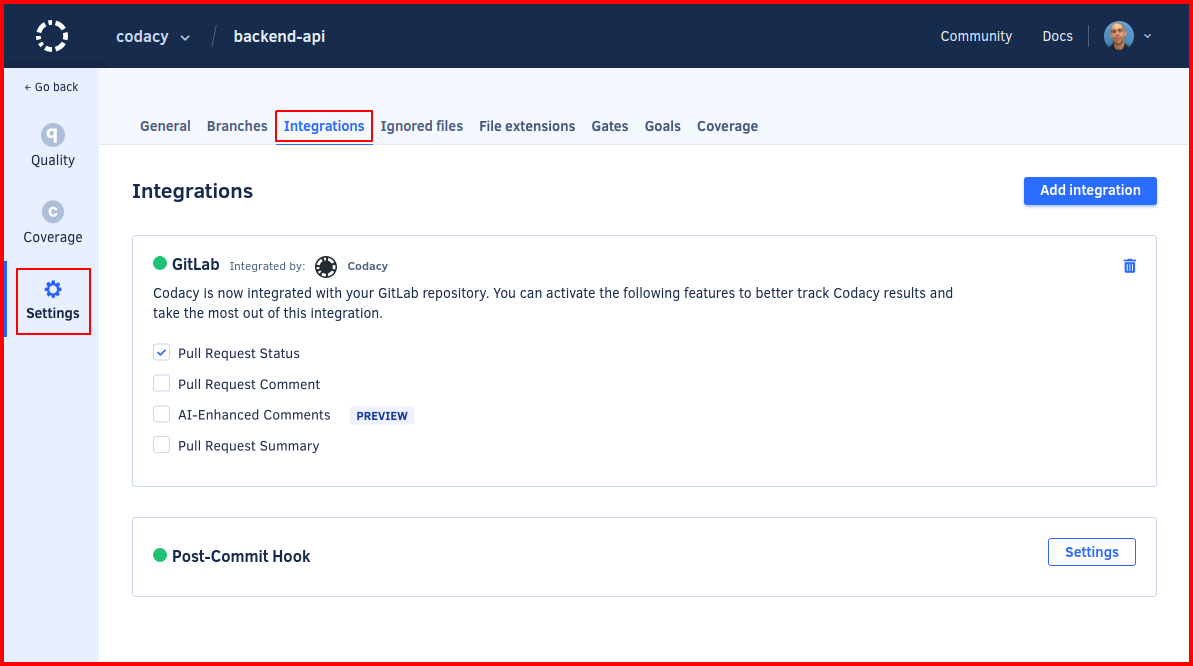
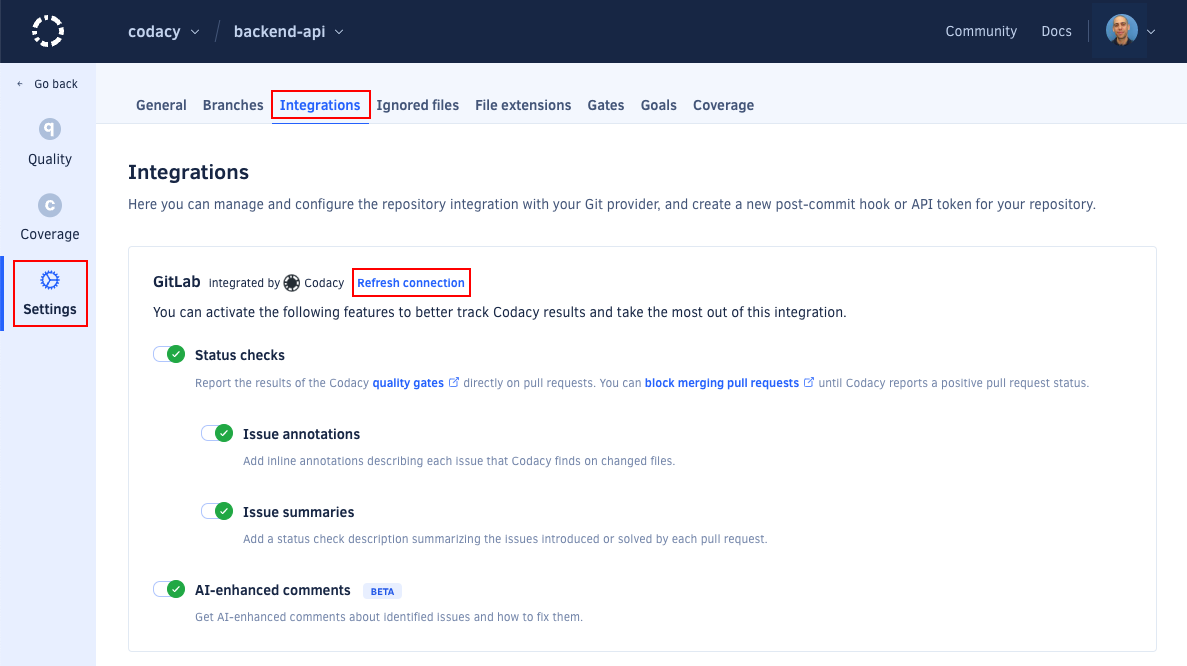
feat: Update GitLab option names and screenshots

diff --git a/docs/repositories-configure/integrations/gitlab-integration.md b/docs/repositories-configure/integrations/gitlab-integration.md
@@ -8,7 +8,7 @@ The GitLab integration incorporates Codacy on your existing Git provider workflo
 
 When you add a new repository, Codacy sets the GitLab integration using the [default settings for your organization](../../organizations/integrations/default-git-provider-integration-settings.md). You can then [customize the settings](#configuring) for the repository.
 
-![GitLab integration](images/gitlab-integration.png)<!--TODO CY-6642 Update screenshot-->
+![GitLab integration](images/gitlab-integration.png)
 
 !!! important
     Codacy uses the GitLab user who added the repository to create comments on merge requests. If that user loses access to the repository, a repository admin must [refresh the GitLab integration](#refreshing).
@@ -25,7 +25,7 @@ Depending on the options that you enable, Codacy will automatically update merge
     end="<!--default-settings-apply-all-end-->"
 %}
 
-### Pull Request Status
+### Status checks
 
 Adds a report to your merge requests showing whether your merge requests and coverage are up to standards or not as configured on the [quality gate rules](../../repositories-configure/adjusting-quality-gates.md) for your project. You can then optionally [block merging merge requests that aren't up to standards](../../getting-started/integrating-codacy-with-your-git-workflow.md#blocking-pull-requests).
 
@@ -33,11 +33,17 @@ Adds a report to your merge requests showing whether your merge requests and cov
 
 ![Merge request status on GitLab](images/gitlab-integration-pr-status.png)
 
-### Pull Request Comment
+### Issue annotations
 
-Adds comments on the lines of the merge request where Codacy finds new issues. Click on the links to open Codacy and see more details about the issues and how to fix them.
+Adds comments on the lines of the merge request where Codacy finds new issues. Click on the links to open Codacy and see more details about the issues and how to fix them. To enable this option, you must enable **Status checks** first.
 
 ![Merge request comment on GitLab](images/gitlab-integration-pr-comment.png)
+
+### Issue summaries
+
+Shows an overall view of the changes in the merge request, including new issues and metrics such as complexity and duplication. To enable this option, you must enable **Status checks** first.
+
+![Merge request summary on GitLab](images/gitlab-integration-pr-summary.png)
 
 ### AI-Enhanced Comments
 
@@ -46,12 +52,6 @@ Adds AI-enhanced comments with insights to help you fix identified issues.
 {% include-markdown "../../assets/includes/ai-info.md" %}
 
 ![AI-enhanced comment on GitLab](images/gitlab-integration-ai-comment.png)
-
-### Pull Request Summary
-
-Shows an overall view of the changes in the merge request, including new issues and metrics such as complexity and duplication.
-
-![Merge request summary on GitLab](images/gitlab-integration-pr-summary.png)
 
 ## Refreshing the GitLab integration {: id="refreshing"}
 
@@ -65,9 +65,9 @@ In this situation, another user with [administrator access to the repository](..
 
 1.  On the GitLab integration area, click the link **Refresh connection**.
 
-    ![Refresh GitLab integration](images/gitlab-integration-refresh.png)<!--TODO CY-6642 Update screenshot-->
+    ![Refresh GitLab integration](images/gitlab-integration-refresh.png)
 
-After refreshing the integration, Codacy will use the logged in GitLab user to create comments on merge requests.
+After refreshing the integration, Codacy will use the logged in GitLab user to create comments on new merge requests.
 
 ## See also
 
